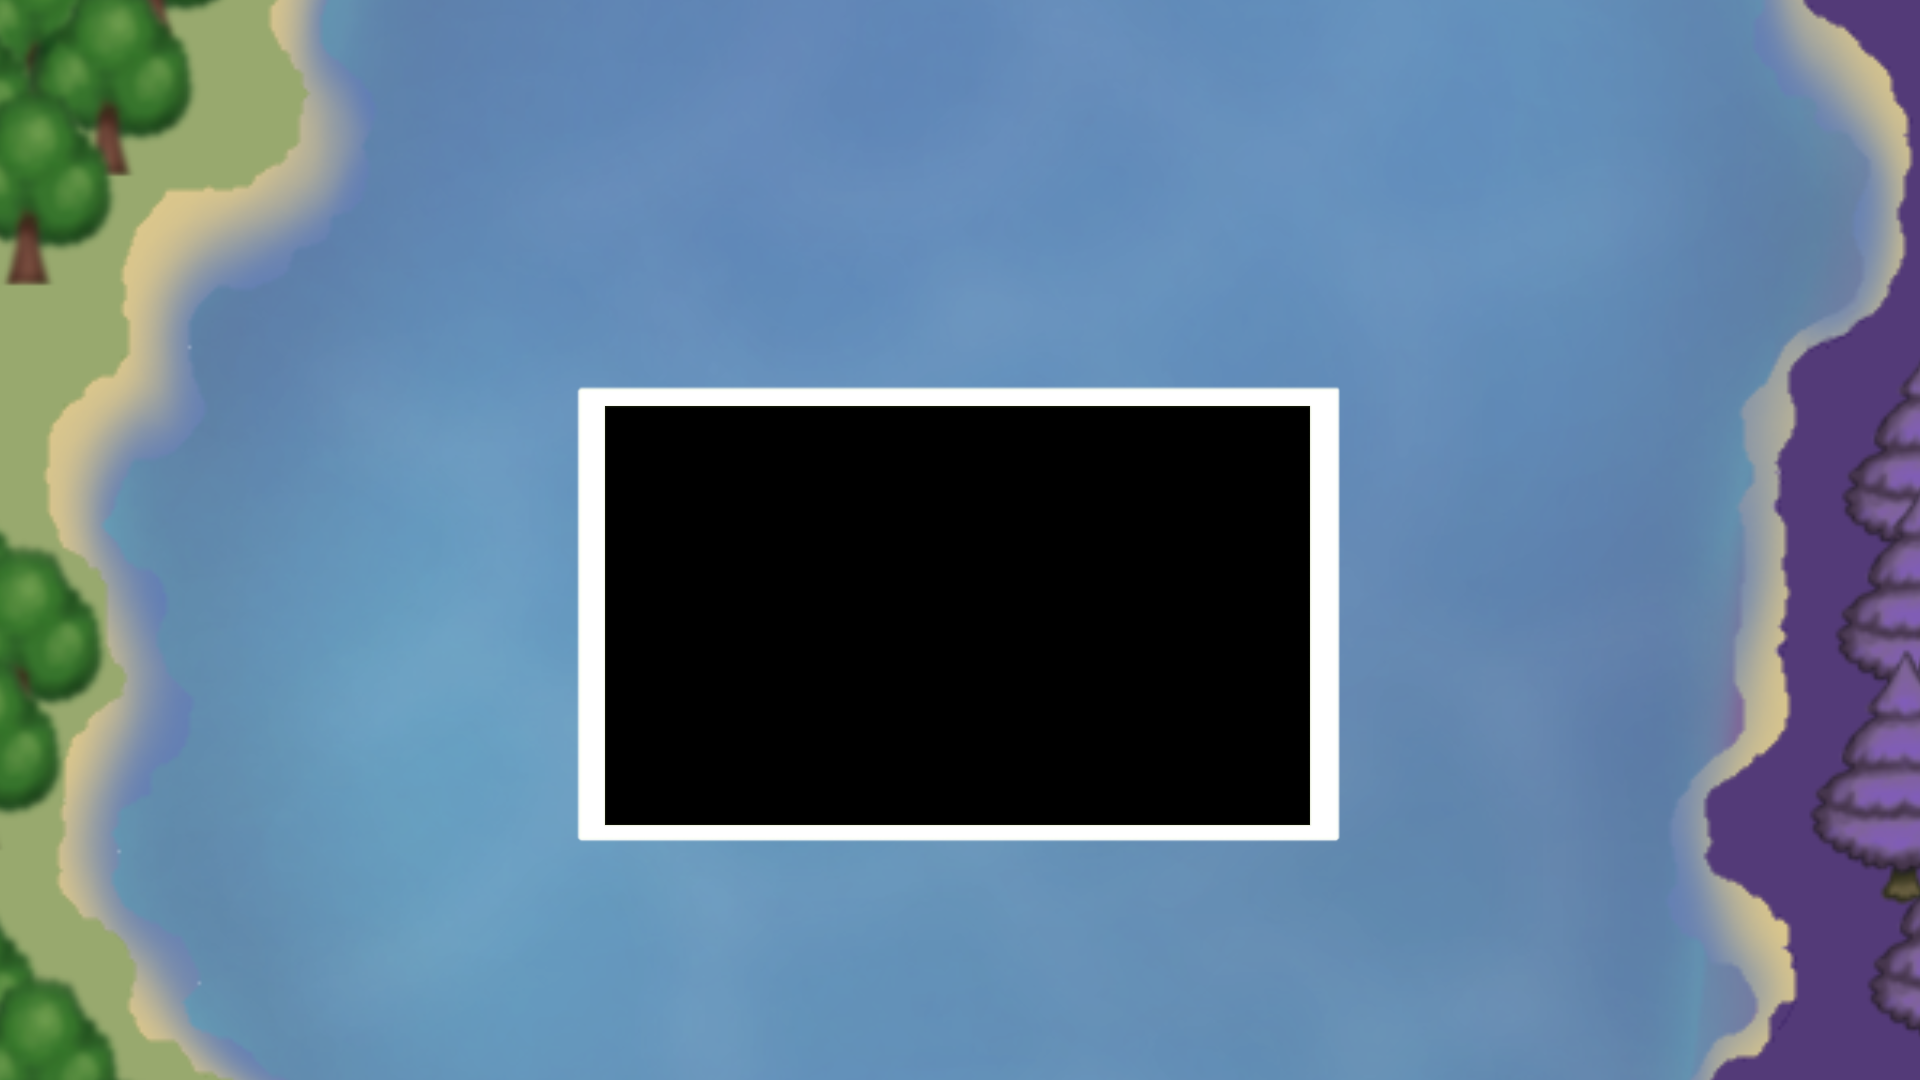
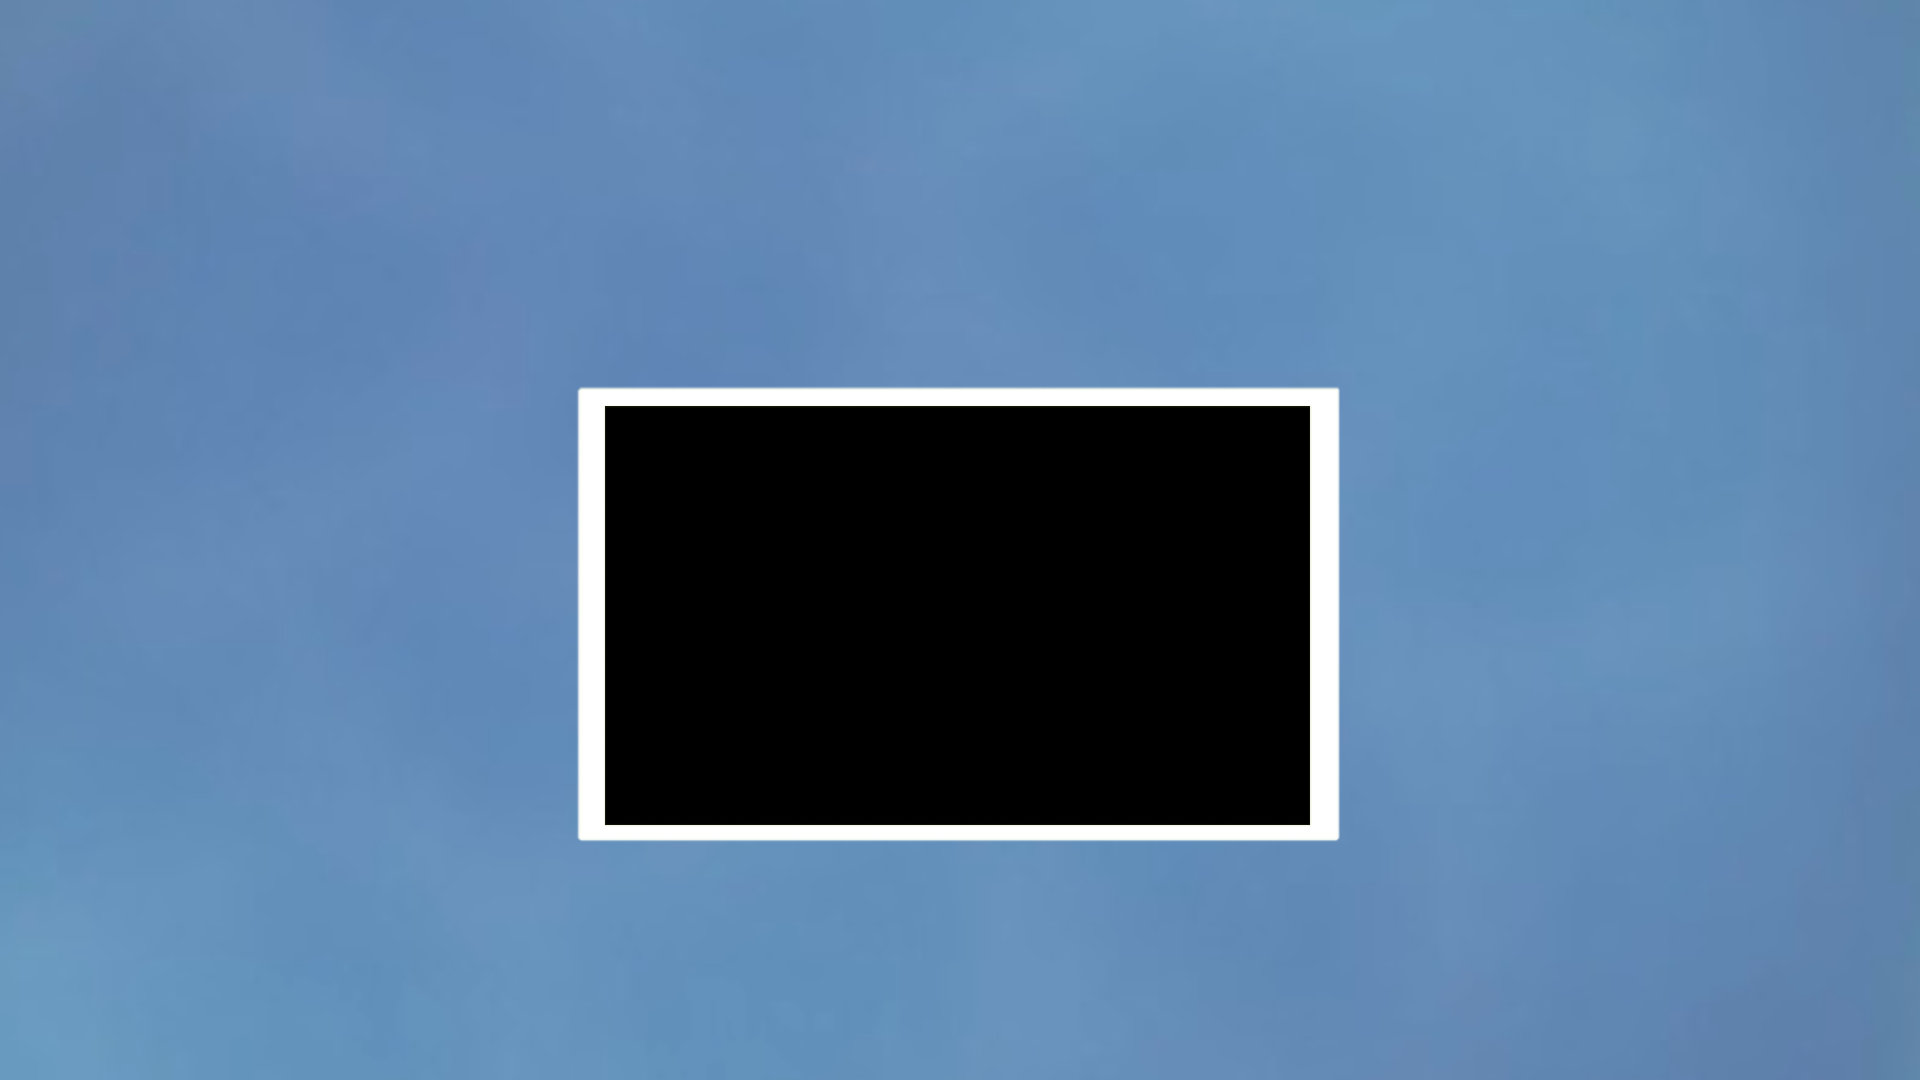
wa

Changed region(s): [[0.0, 0.0, 0.1875, 1.0], [0.875, 0.0, 1.0, 1.0], [0.2188, 0.5806, 0.2812, 0.6722]]

diff --git a/src/pages/start.jsx b/src/pages/start.jsx
@@ -1,7 +1,7 @@
 import { useState } from "react";
 import { useNavigate } from "react-router-dom";
 
-import startmap from "../assets/startmap3.png";
+import startmap from "../assets/startmap.png";
 import"./start.css";
 
 function Start() {

diff --git a/src/pages/eriasentaku.jsx b/src/pages/eriasentaku.jsx
@@ -1,5 +1,5 @@
 import { useNavigate } from 'react-router-dom';
-import areaBackground from "../assets/forest3.jpg";
+import areaBackground from "../assets/forest.jpg";
 import './Eriasentaku.css';
 
 function Eriasentaku() {

diff --git a/src/pages/boss.jsx b/src/pages/boss.jsx
@@ -1,6 +1,6 @@
 import { useNavigate } from "react-router-dom";
 
-import bossBackground from "../assets/river3.jpg";
+import bossBackground from "../assets/boss.png";
 import"./Boss.css";
 
 function Boss() {
